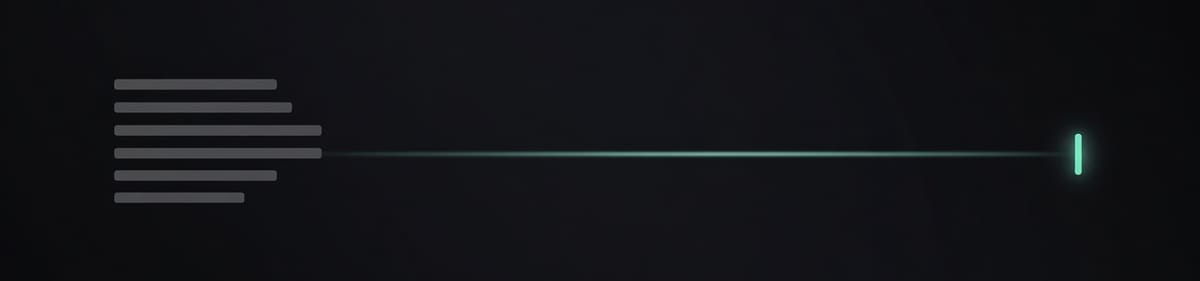
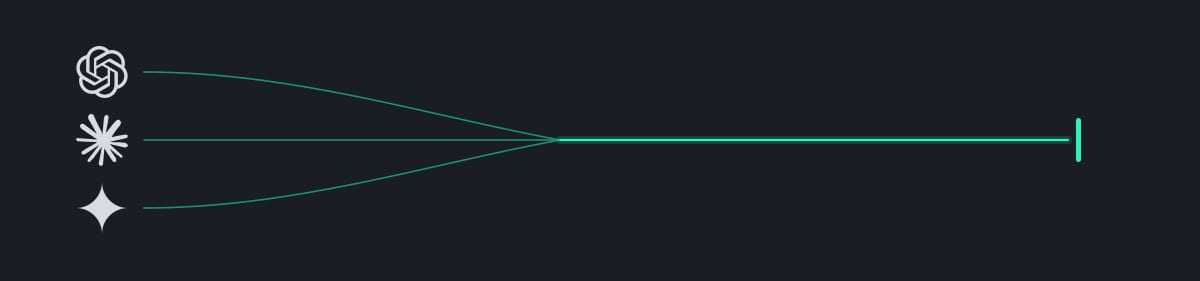
Aproxima o convite da lista e troca a capa.
O botão Quero saber mais fica logo depois dos passos. Cada etapa ganha número e a primeira frase em destaque. A capa mostra OpenAI, Claude e Gemini entrando num fluxo só.

Changed region(s): [[0.0617, 0.1423, 0.925, 0.8256], [0.0925, 0.5979, 0.2467, 0.6548]]

diff --git a/src/features/consulting/components/consulting-page/consulting.module.scss b/src/features/consulting/components/consulting-page/consulting.module.scss
@@ -1,16 +1,41 @@
-.body .steps li + li {
-  margin-top: 1.25rem;
+.body .steps {
+  display: flex;
+  flex-direction: column;
+  gap: 0.75rem;
+  margin: 0 0 1.5rem;
+  padding: 0;
+  list-style: none;
+  counter-reset: step;
 }
 
-.close {
-  margin-top: 0.5rem;
-  padding: 1.6rem;
+.steps li {
+  display: grid;
+  grid-template-columns: 1.6rem 1fr;
+  gap: 0.85rem;
+  align-items: start;
+  margin: 0;
+  padding: 1.05rem 1.15rem;
+  counter-increment: step;
+  border: 1px solid var(--color-border);
+  border-radius: 4px;
   background: var(--color-background-interactive);
 
-  h2 {
-    margin: 0;
-    max-width: 16em;
+  &::before {
+    content: counter(step);
+    color: var(--color-primary);
+    font-size: 1.05rem;
+    font-weight: 600;
+    line-height: 1.45;
   }
+
+  p {
+    margin: 0;
+  }
+}
+
+.stepLead {
+  color: var(--color-title);
+  font-weight: 500;
 }
 
 .cta {
@@ -19,7 +44,7 @@
   justify-content: center;
   width: fit-content;
   max-width: 100%;
-  margin-top: 1.5rem;
+  margin-top: 0;
   padding: 1.05rem 1.35rem;
   border-radius: 6px;
   background: var(--color-primary);
@@ -49,8 +74,9 @@
 }
 
 @media screen and (min-width: 768px) {
-  .close {
-    padding: 3rem;
-    border-radius: 4px;
+  .steps li {
+    grid-template-columns: 1.85rem 1fr;
+    gap: 1rem;
+    padding: 1.3rem 1.5rem;
   }
 }

diff --git a/src/features/consulting/components/consulting-page/consulting-page.tsx b/src/features/consulting/components/consulting-page/consulting-page.tsx
@@ -6,6 +6,19 @@ import styles from './consulting.module.scss'
 import { Emphasis } from './emphasis'
 import { WhatsAppCta } from './whatsapp-cta'
 
+function StepText({ text }: { text: string }) {
+  const breakAt = text.indexOf('. ')
+
+  if (breakAt === -1) return text
+
+  return (
+    <p>
+      <span className={styles.stepLead}>{text.slice(0, breakAt + 1)}</span>{' '}
+      {text.slice(breakAt + 2)}
+    </p>
+  )
+}
+
 export function ConsultingPage() {
   return (
     <div className={article.wrapper}>
@@ -41,13 +54,12 @@ export function ConsultingPage() {
             <h2 id="como-funciona">{consulting.howHeading}</h2>
             <ol className={styles.steps}>
               {consulting.steps.map((step) => (
-                <li key={step}>{step}</li>
+                <li key={step}>
+                  <StepText text={step} />
+                </li>
               ))}
             </ol>
-            <section className={styles.close} aria-labelledby="convite">
-              <h2 id="convite">{consulting.ask}</h2>
-              <WhatsAppCta />
-            </section>
+            <WhatsAppCta />
           </div>
         </div>
       </div>

diff --git a/src/features/consulting/content.ts b/src/features/consulting/content.ts
@@ -3,7 +3,7 @@ import { site } from '@/config/site'
 const whatsapp = {
   e164: '5567996096006',
   display: '+55 67 99609-6006',
-  label: 'Chamar no WhatsApp',
+  label: 'Quero saber mais',
   message: `Olá, Gabriel. Vim pelo site.
 Quero melhorar o front-end do projeto.
 O que a IA já gerou: `,
@@ -18,7 +18,7 @@ export const consulting = {
     social: '/imgs/consultoria/consultoria.jpg',
     width: 1200,
     height: 281,
-    alt: 'Barras soltas à esquerda seguem por uma linha até um traço mint.',
+    alt: 'OpenAI, Claude e Gemini convergem num fluxo só, até um traço mint.',
   },
   promise: 'Um front-end com IA, pronto para as próximas features.',
   audience:
@@ -35,6 +35,5 @@ export const consulting = {
     'Adiciono ou melhoro a camada de observabilidade. Dá para ver quando a feature falha e se o padrão segurou.',
     'Deixo a feature como exemplo. As melhorias seguintes e as features novas partem desse padrão.',
   ],
-  ask: 'Quer melhorar o front-end do seu projeto?',
   whatsapp,
 } as const

diff --git a/specs/005-monetization.md b/specs/005-monetization.md
@@ -34,7 +34,7 @@ Sem widget, popup ou script de agenda. O link é uma âncora para o WhatsApp. A 
 
 O texto vive em `src/features/consulting/content.ts`. A URL do WhatsApp é função pura ao lado do componente. A rota é fina: metadata, JSON-LD, page view, render.
 
-**`/consultoria`** é a única página e usa o mesmo layout de um post (`post-article`): invólucro de 1200px, `<h1>` e descrição no mesmo tamanho e na mesma cor, corpo centralizado em 740px com os mesmos parágrafos e `h2`. O `<h1>` diz o resultado: um front-end com IA, pronto para as próximas features. A descrição, em primary, diz para quem é. A capa entra no corpo, no mesmo lugar da imagem de um post, numa faixa mais baixa (1200×281): barras soltas seguem por uma linha até um traço mint. WebP na página, JPEG no OG. O texto traz o que o trabalho faz e uma apresentação curta: Senior Front-end há 16 anos, em arquitetura e padronização, com Grupo Boticário e Grupo SBF. O `<h1>` não leva `<strong>`. No corpo, o destaque segue o dos posts: uma frase de impacto, na cor primary. “Como funciona” é uma lista ordenada com os cinco passos. O fechamento fica na coluna do texto, na mesma superfície dos cards de post (`background-interactive`): a pergunta “Quer melhorar o front-end do seu projeto?” e o botão de WhatsApp, sem o número.
+**`/consultoria`** é a única página e usa o mesmo layout de um post (`post-article`): invólucro de 1200px, `<h1>` e descrição no mesmo tamanho e na mesma cor, corpo centralizado em 740px com os mesmos parágrafos e `h2`. O `<h1>` diz o resultado: um front-end com IA, pronto para as próximas features. A descrição, em primary, diz para quem é. A capa entra no corpo, no mesmo lugar da imagem de um post, numa faixa mais baixa (1200×281): barras soltas seguem por uma linha até um traço mint. WebP na página, JPEG no OG. O texto traz o que o trabalho faz e uma apresentação curta: Senior Front-end há 16 anos, em arquitetura e padronização, com Grupo Boticário e Grupo SBF. O `<h1>` não leva `<strong>`. No corpo, o destaque segue o dos posts: uma frase de impacto, na cor primary. “Como funciona” é uma lista ordenada com os cinco passos, cada um num bloco da coluna (número em primary, primeira frase na cor do título). Logo depois vem só o botão “Quero saber mais”, sem o número. A capa mostra OpenAI, Claude e Gemini entrando num fluxo só.
 
 As rotas antigas redirecionam para `/consultoria`: `/consultoria/individual`, `/consultoria/empresarial`, `/consultoria/leitura-de-carreira` e `/consultoria/para-um-time`.
 

diff --git a/specs/004-images.md b/specs/004-images.md
@@ -50,7 +50,7 @@ Capas compartilham uma **família** minimalista — não um template único. Fun
 - Fundo: **`#1a1d24`** (slate escuro, distinto do `--color-background` dark `#16161b`). Não variar o campo de fundo entre posts.
 - Material: vidro fosco / nós luminosos / acento mint-teal suave. Sem roxo, sem glow de marca alheia, sem clutter.
 - Export: ~1200×674 (16:9), WebP no corpo + JPEG leve no OG (≤ ~100 KB social).
-- A página `/consultoria` usa a mesma família numa faixa mais baixa (1200×281). A altura do 16:9 fica grande demais nessa página. Ver `005`.
+- A página `/consultoria` usa a mesma família numa faixa mais baixa (1200×281). A altura do 16:9 fica grande demais nessa página. A composição são as três IAs (OpenAI, Claude, Gemini), em tom único, entrando num fluxo alinhado. Ver `005`.
 
 #### Composição (varia por post)
 
